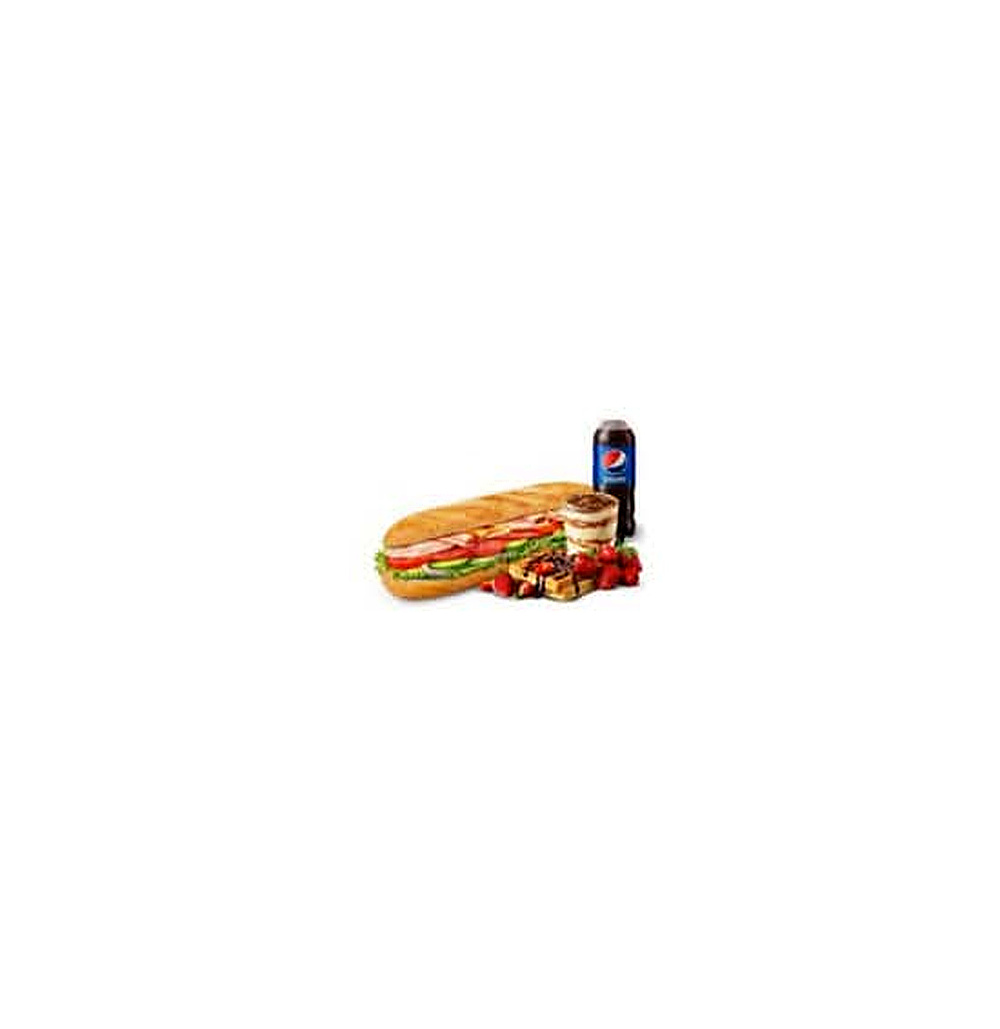
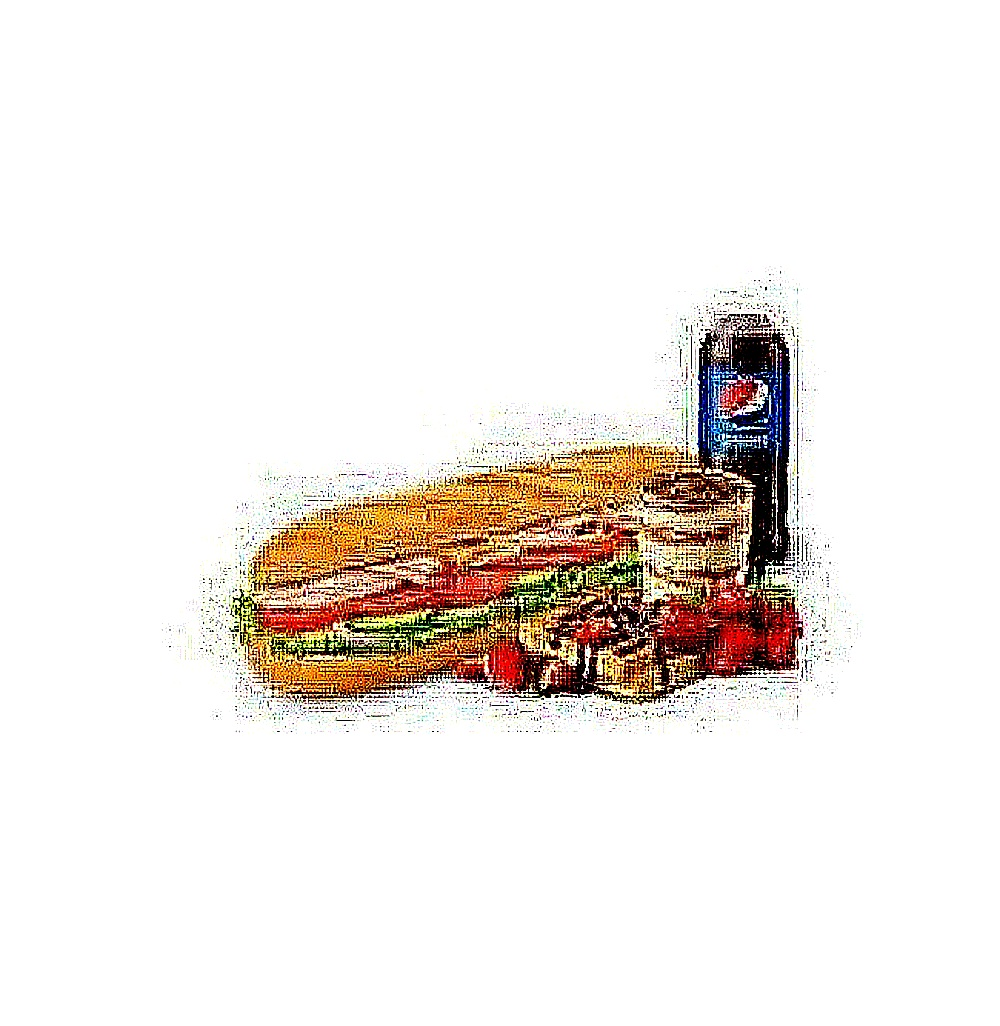
Add files via upload
carrer

Changed region(s): [[0.186, 0.2807, 0.837, 0.7173]]

diff --git a/app.js b/app.js
@@ -197,7 +197,7 @@ renderMenu("all",document.getElementById("mg2"));
 
 document.querySelectorAll(".nv a").forEach(function(a){a.addEventListener("click",function(){navTo(this.id.replace("na-",""));});});
 document.querySelector(".hero-btn").addEventListener("click",function(){navTo("menu");});
-document.querySelector(".hero-btn2").addEventListener("click",function(){if(!window.open("https://wa.me/[phone redacted]","_blank"))alert("WhatsApp: https://wa.me/[phone redacted]");});
+document.querySelector(".hero-btn2").addEventListener("click",function(){window.location.href="https://wa.me/33672044875";});
 
 document.getElementById("nl1").addEventListener("submit",function(e){e.preventDefault();var v=this.querySelector("input");if(!v||!v.value.trim())return;var em=v.value.trim();v.disabled=true;var x=new XMLHttpRequest();x.open("POST","/api/newsletter",true);x.setRequestHeader("Content-Type","application/json");x.onload=function(){v.disabled=false;if(x.status===200){ts("Inscrit !");v.value="";}else{ts("Erreur");}};x.onerror=function(){v.disabled=false;ts("Erreur réseau");};x.send(JSON.stringify({email:em}));});
 document.getElementById("nl2").addEventListener("submit",function(e){e.preventDefault();var v=this.querySelector("input");if(!v||!v.value.trim())return;var em=v.value.trim();v.disabled=true;var x=new XMLHttpRequest();x.open("POST","/api/newsletter",true);x.setRequestHeader("Content-Type","application/json");x.onload=function(){v.disabled=false;if(x.status===200){ts("Inscrit !");v.value="";}else{ts("Erreur");}};x.onerror=function(){v.disabled=false;ts("Erreur réseau");};x.send(JSON.stringify({email:em}));});
@@ -299,7 +299,7 @@ document.addEventListener("click",function(e){var m=document.getElementById("mn"
 
 ["acc","menu","ap","con"].forEach(function(p){var a=document.createElement("a");var names={acc:"Accueil",menu:"Menu",ap:"Infos",con:"Contact"};a.textContent=names[p];a.addEventListener("click",function(){navTo(p);var m=document.getElementById("mn");if(m)m.classList.remove("on");document.getElementById("ham").textContent="☰";});document.getElementById("mn").appendChild(a);});
 
-document.getElementById("wa-btn").addEventListener("click",function(){if(!window.open("https://wa.me/[phone redacted]","_blank"))alert("WhatsApp: https://wa.me/[phone redacted]");});
+document.getElementById("wa-btn").addEventListener("click",function(){window.location.href="https://wa.me/33672044875";});
 
 if("serviceWorker" in navigator){navigator.serviceWorker.register("/sw.js?v=2").catch(function(){});navigator.serviceWorker.ready.then(function(r){r.update();});}
 
@@ -311,7 +311,8 @@ if("serviceWorker" in navigator){navigator.serviceWorker.register("/sw.js?v=2").
     var its=cart.map(function(i){return i.q+"x "+i.n+(i.cu?" ("+i.cu.substring(0,50)+")":"")+" - "+(i.p*i.q).toFixed(2)+"€";}).join("%0a");
     if(df>0)its+="%0a🚚 Livraison: "+df.toFixed(2)+"€";
     var msg="NOUVELLE COMMANDE (PAYE)%0a%0a"+mode+"%0a%0a"+its+"%0a%0aTotal: "+t.toFixed(2)+"€%0aPAYE";
-    for(var wi=0;wi<WA_NUMBERS.length;wi++){try{window.open("https://wa.me/"+WA_NUMBERS[wi]+"?text="+encodeURIComponent(msg),wi===0?"_self":"_blank");}catch(e){}}
+    var waUrl="https://wa.me/"+WA_NUMBERS[0]+"?text="+encodeURIComponent(msg);
+    try{window.location.href=waUrl;}catch(e){}
     cart=[];sv();tc();ts("Commande envoyée !");
   }
 })();